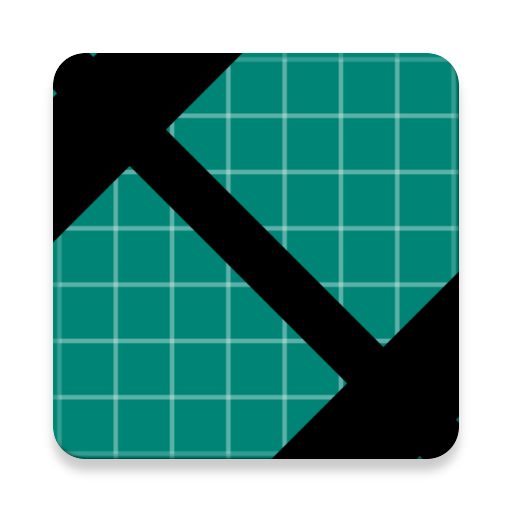
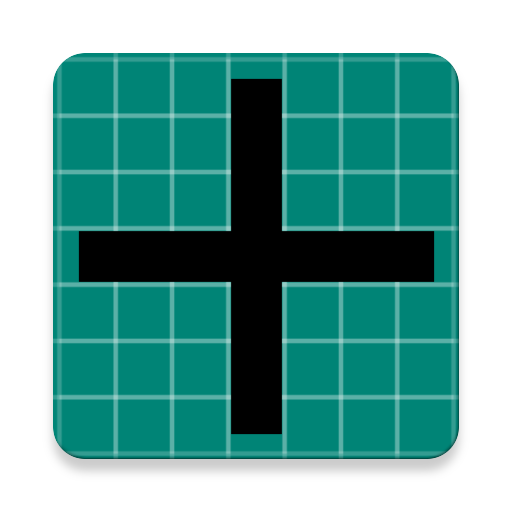
añadido floating button al formulario de añadir sesiones + modificado los iconos de los floating buttons

Changed region(s): [[0.0938, 0.0938, 0.9062, 0.9062]]

diff --git a/app/src/main/java/com/example/befit/NSesionFragment.java b/app/src/main/java/com/example/befit/NSesionFragment.java
@@ -4,6 +4,7 @@ import android.app.Activity;
 import android.content.Context;
 import android.net.Uri;
 import android.os.Bundle;
+import android.support.design.widget.FloatingActionButton;
 import android.support.design.widget.TabLayout;
 import android.support.v4.app.DialogFragment;
 import android.support.v4.app.Fragment;
@@ -17,7 +18,7 @@ import java.text.SimpleDateFormat;
 import java.util.ArrayList;
 import java.util.Date;
 
-public class NSesionFragment extends Fragment implements View.OnClickListener, View.OnFocusChangeListener {
+public class NSesionFragment extends Fragment implements View.OnFocusChangeListener {
 
     private OnFragmentInteractionListener mListener;
 
@@ -32,6 +33,7 @@ public class NSesionFragment extends Fragment implements View.OnClickListener, V
     EditText tbM4;
     Button btnAceptar;
     Button btnLimpiar;
+    FloatingActionButton floatingAdd;
     ArrayList<EditText> lCampos = new ArrayList<>();
 
     public NSesionFragment() {
@@ -61,16 +63,15 @@ public class NSesionFragment extends Fragment implements View.OnClickListener, V
         tbM2 = view.findViewById(R.id.tbM2);
         tbM3 = view.findViewById(R.id.tbM3);
         tbM4 = view.findViewById(R.id.tbM4);
-        btnAceptar = view.findViewById(R.id.btnAceptar);
-        btnLimpiar = view.findViewById(R.id.btnLimpiar);
         tabLayout = view.findViewById(R.id.tabLayout);
+        floatingAdd = view.findViewById(R.id.floatingAdd);
 
         //Evento para el focus del campo de texto
-        tbNombre.setOnFocusChangeListener(this);
+        /*tbNombre.setOnFocusChangeListener(this);
         tbM1.setOnFocusChangeListener(this);
         tbM2.setOnFocusChangeListener(this);
         tbM3.setOnFocusChangeListener(this);
-        tbM4.setOnFocusChangeListener(this);
+        tbM4.setOnFocusChangeListener(this);*/
 
         //Lista de campos de texto
         lCampos.add(tbNombre);
@@ -80,39 +81,9 @@ public class NSesionFragment extends Fragment implements View.OnClickListener, V
         lCampos.add(tbM4);
 
         //Controles
-        btnLimpiar.setOnClickListener(this);
-        btnAceptar.setOnClickListener(this);
-
-        return view;
-    }
-
-    public void onButtonPressed(Uri uri) {
-        if (mListener != null) {
-            mListener.onFragmentInteraction(uri);
-        }
-    }
-
-    @Override
-    public void onAttach(Context context) {
-        super.onAttach(context);
-        if (context instanceof OnFragmentInteractionListener) {
-            mListener = (OnFragmentInteractionListener) context;
-        } else {
-            throw new RuntimeException(context.toString()
-                    + " must implement OnFragmentInteractionListener");
-        }
-    }
-
-    @Override
-    public void onDetach() {
-        super.onDetach();
-        mListener = null;
-    }
-
-    @Override
-    public void onClick(View v) {
-        switch (v.getId()) {
-            case R.id.btnAceptar: {
+        floatingAdd.setOnClickListener(new View.OnClickListener() {
+            @Override
+            public void onClick(View v) {
                 try {
                     if (ComprobarCampos() == true) {
                         if (new DAOSesiones(getContext()).ExistirSesion(tbNombre.getText().toString().trim()) == true) {
@@ -158,12 +129,32 @@ public class NSesionFragment extends Fragment implements View.OnClickListener, V
                     dialogFragment.show(getFragmentManager(), "error");
                 }
             }
-            break;
-            case R.id.btnLimpiar: {
-                LimpiarUI();
-            }
-            break;
+        });
+
+        return view;
+    }
+
+    public void onButtonPressed(Uri uri) {
+        if (mListener != null) {
+            mListener.onFragmentInteraction(uri);
         }
+    }
+
+    @Override
+    public void onAttach(Context context) {
+        super.onAttach(context);
+        if (context instanceof OnFragmentInteractionListener) {
+            mListener = (OnFragmentInteractionListener) context;
+        } else {
+            throw new RuntimeException(context.toString()
+                    + " must implement OnFragmentInteractionListener");
+        }
+    }
+
+    @Override
+    public void onDetach() {
+        super.onDetach();
+        mListener = null;
     }
 
     //Comprobamos que todos los campos estén rellenos
@@ -176,7 +167,7 @@ public class NSesionFragment extends Fragment implements View.OnClickListener, V
         return true;
     }
 
-    //Limpiamos los campos de texto
+    //Limpiamos los campos de texto (SIN UTILIZAR)
     private void LimpiarUI() {
         for (EditText campo : lCampos) {
             campo.getText().clear();
